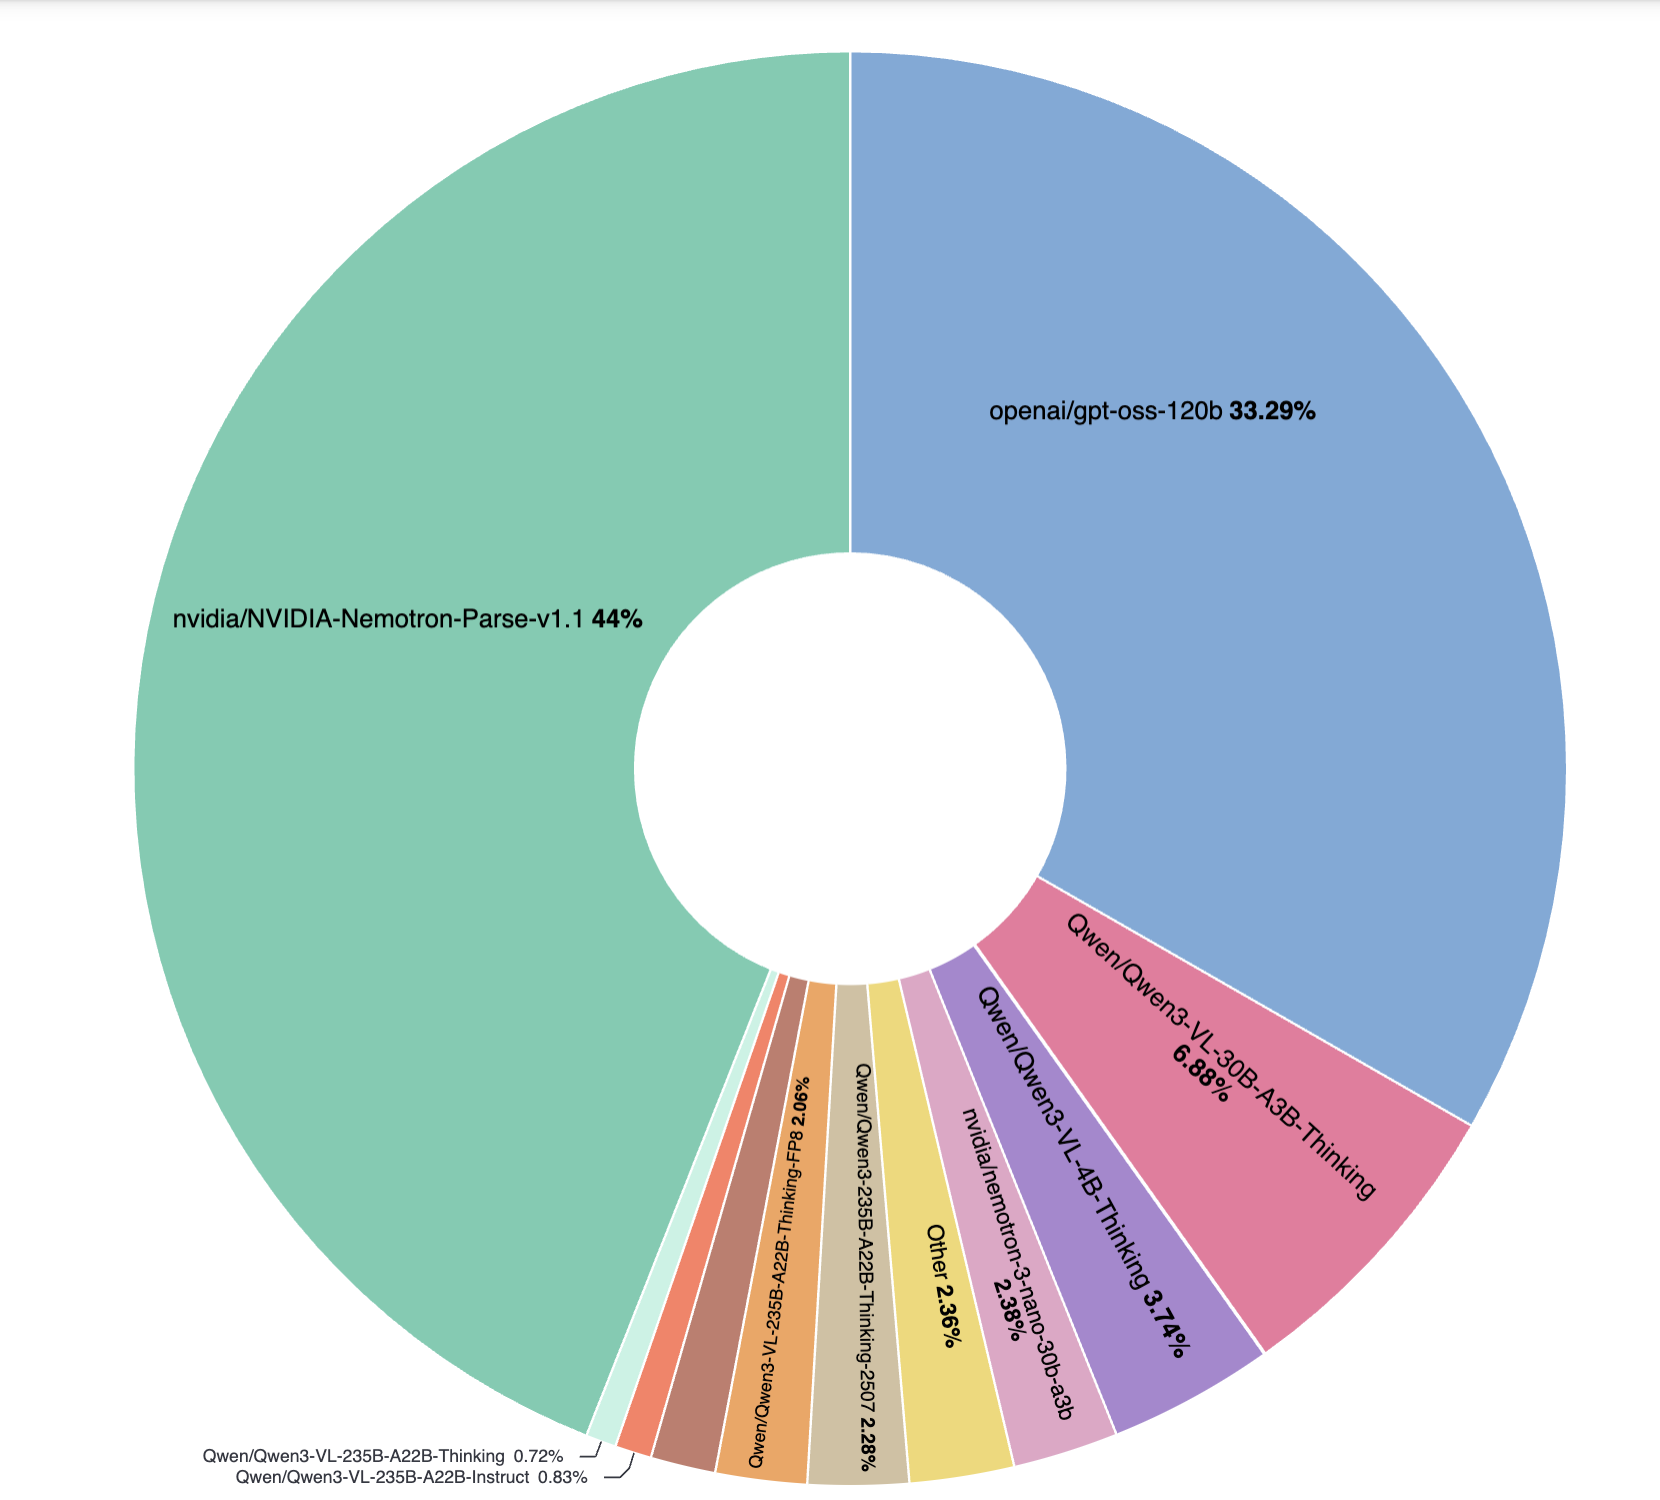
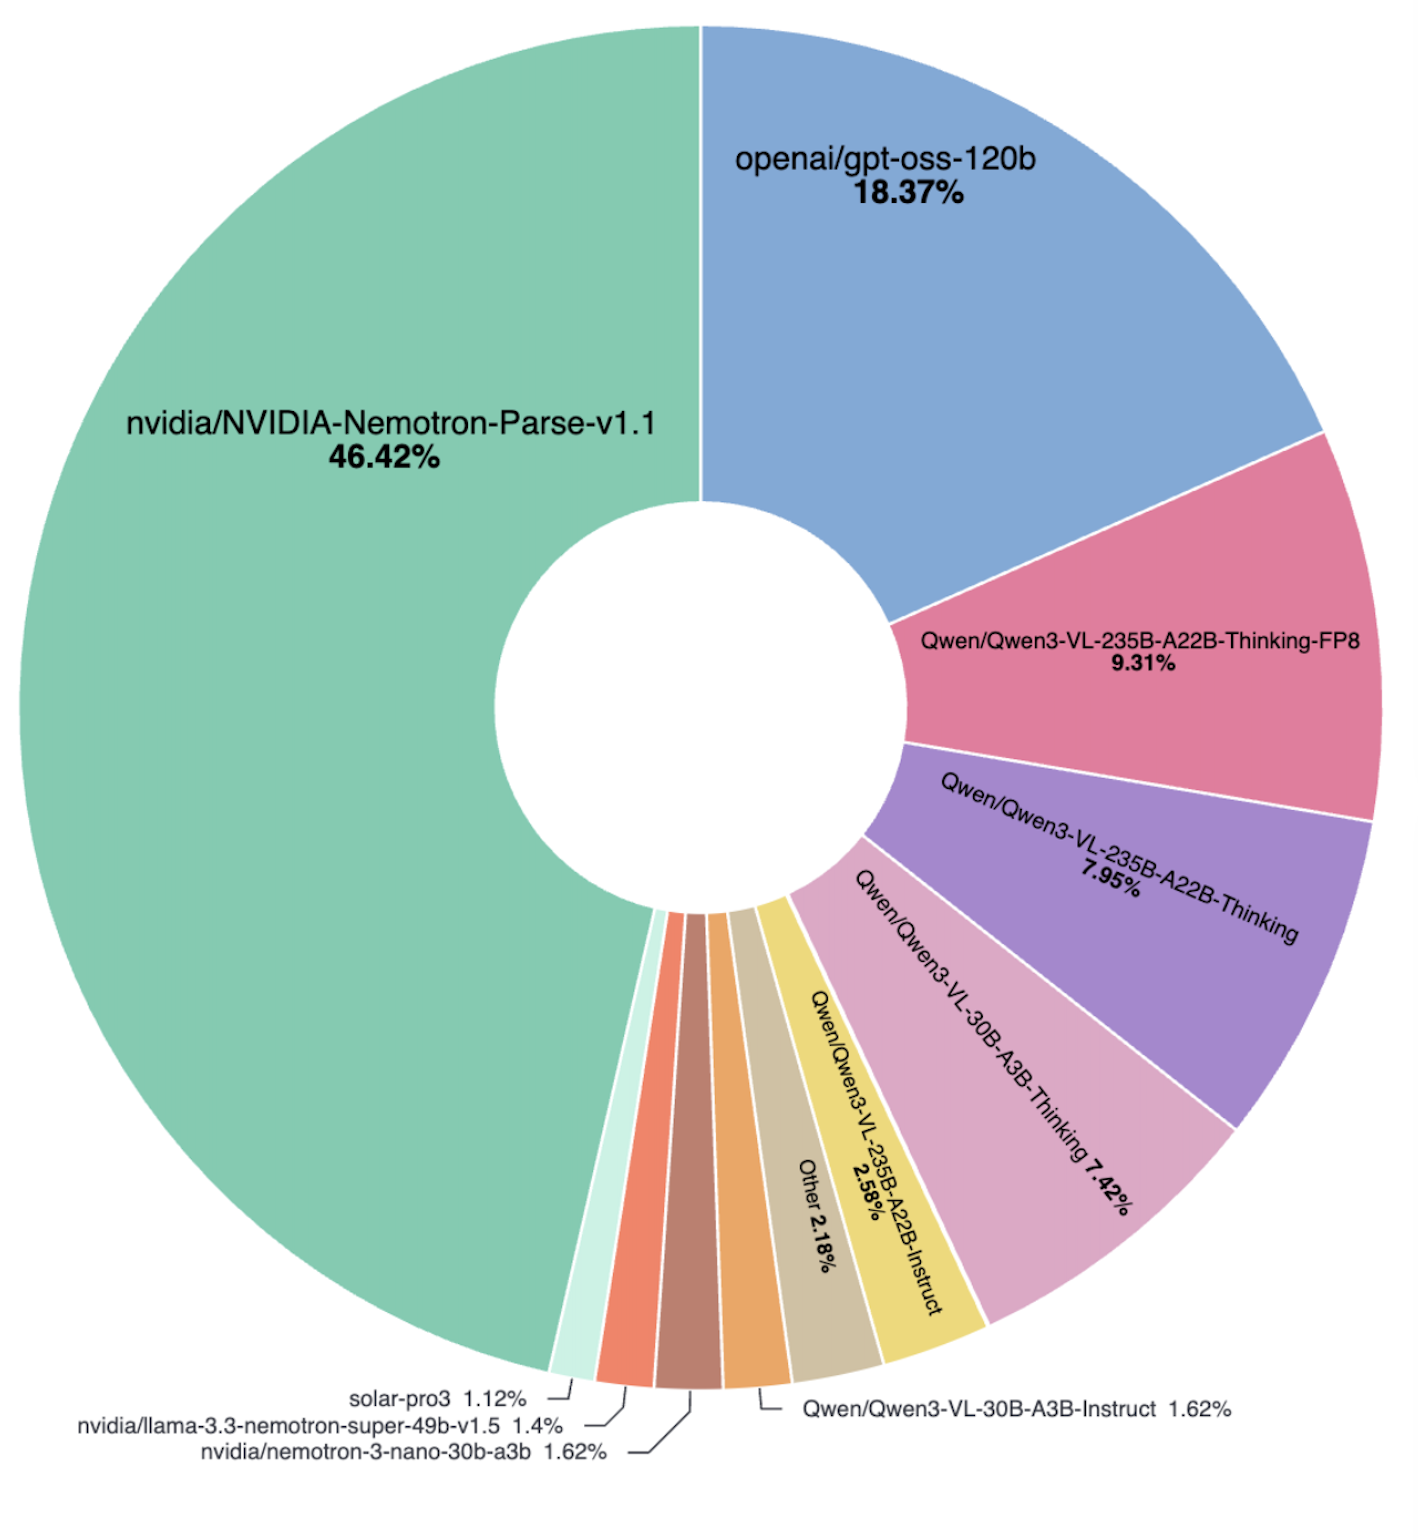
Update top models usage chart for 1/24-2/24/2026 (#353)
Replace the top-models pie chart with updated telemetry data
and update the date range in the README.

diff --git a/README.md b/README.md
@@ -148,11 +148,11 @@ To disable telemetry capture, set `NEMO_TELEMETRY_ENABLED=false`.
 
 ### Top Models
 
-This chart represents the breakdown of models used for Data Designer across all synthetic data generation jobs from 1/5/2026 to 2/5/2026.
+This chart represents the breakdown of models used for Data Designer across all synthetic data generation jobs from 1/24/2026 to 2/24/2026.
 
 ![Top models used for synthetic data generation](docs/images/top-models.png)
 
-_Last updated on 2/05/2026_
+_Last updated on 2/24/2026_
 
 ---
 
